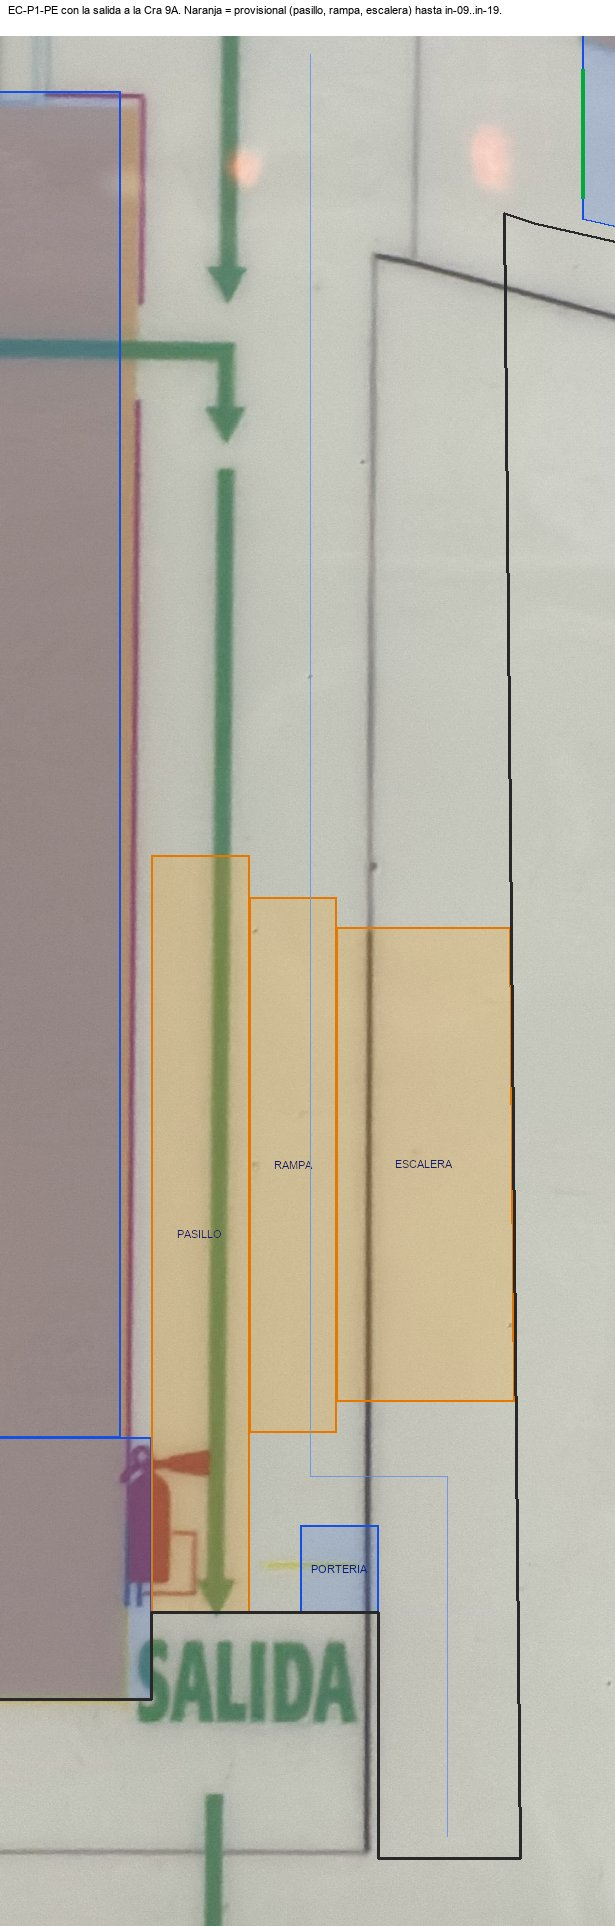
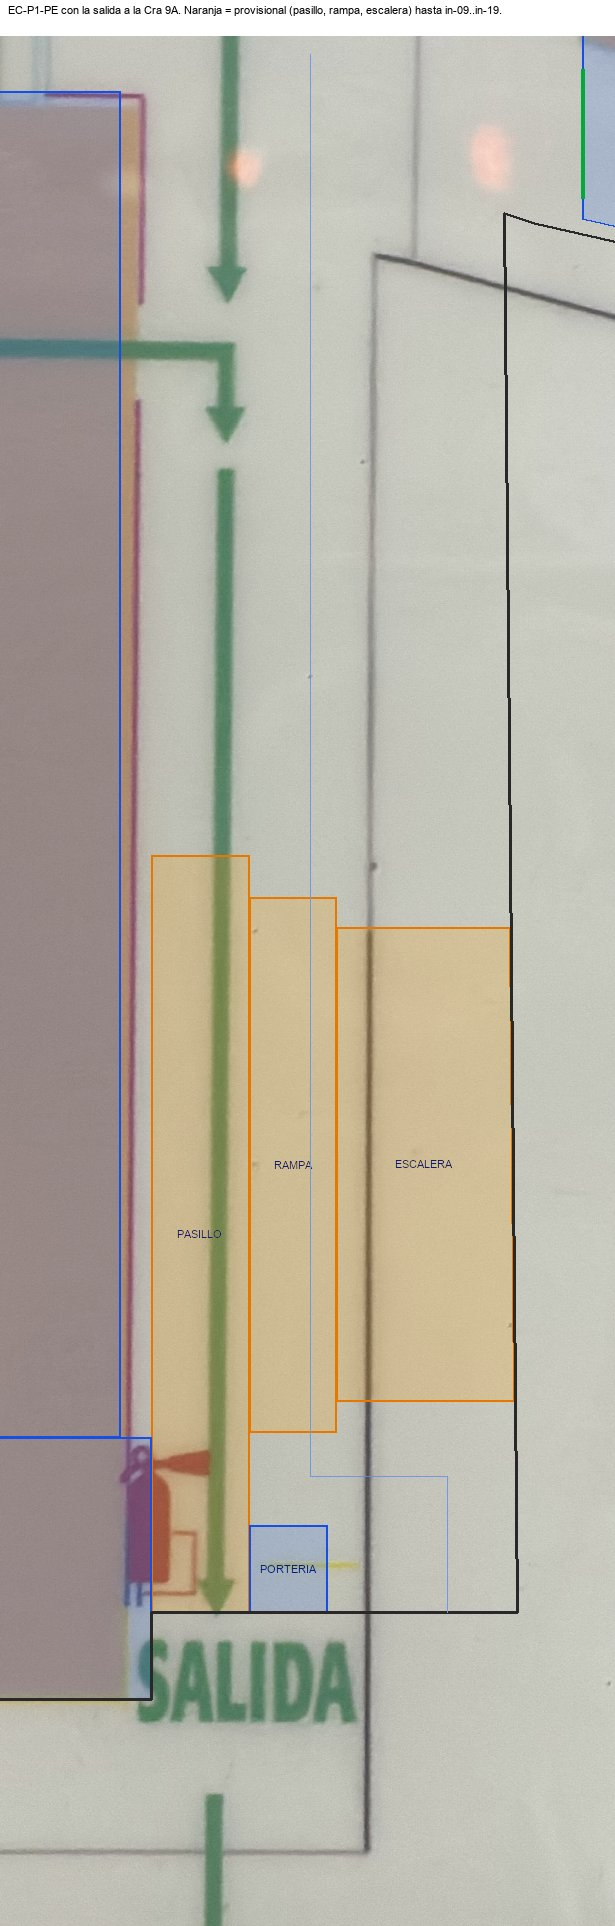
docs: follow the booth under the ramp and the floor's new end in the example and captures
The contract example's outline, booth and exit corridor follow the seed, and
captures 14, 15 and 17 are drawn again. The backend state records the booth,
the cut outline and that #221 merges after the delivery.

Refs #218

diff --git a/docs/state/backend.md b/docs/state/backend.md
@@ -76,15 +76,19 @@
     the hall; the script prints the checks (seats, overlaps, corner caps, short sides, corners on their lines).
   - **Provisional, the way down to the Carrera 9A gate:** `P1-9A-PASILLO` (CORRIDOR), `P1-9A-RAMPA` (RAMP) and
     `P1-9A-ESCALERA` (STAIRS), from Brian's drawing of 2026-11-17 where `survey-plan.py` puts them. Redraw them when he
-    takes `in-09` to `in-19` (84 to 94, in the survey sheet since #235). The guard's booth is the tape's (1.52 x 1.69 m).
+    takes `in-09` to `in-19` (84 to 94, in the survey sheet since #235). The guard's booth keeps the tape's size
+    (1.52 x 1.69 m) but stands under the ramp, as Brian drew it, not against the central wing as the tape had it.
   - `register.py` gained `"turned"`, `"drawn"` (rooms given in floor units) and `"outline"`; `ec-surveyed.json`
     uses `"drawn"` and `"outline"`. The floor's `outline` is the surveyed parts on P1, the open patio and the
-    passage between the tower and the casa's lot line, out to the sidewalk; the gate is 2.53 m (survey 46).
+    passage between the tower and the casa's lot line, cut at the booth's front: Brian marks the rest down to the
+    street as sidewalk.
   - Corridors: only `PAS-TRANSVERSAL` and `PAS-SALIDA-9A`; the two through the cafeteria went.
   - V017 puts the floor in place even over a saved one; the contract example and its label points follow.
   - `render-map-base.py` now draws a floor's outline, corridors and doors. Review images:
     `~/Documents/KApp/mapa-pisos/ec-p1-218/` on Brian's Mac.
-  - After merge: Kotlin re-runs `capture-demo-data.sh` so the demo serves the new example.
+  - **Not before the delivery:** V017 changes the dev server's floor while the testers use it. Brian merges after
+    Friday 2026-11-20.
+  - After merge: Santiago re-runs `capture-demo-data.sh` so the demo serves the new example.
   - Next: P2's gallery over the hall as now drawn (#220).
 
 - **map 3.7.0, `labelPoint` (#195):**
